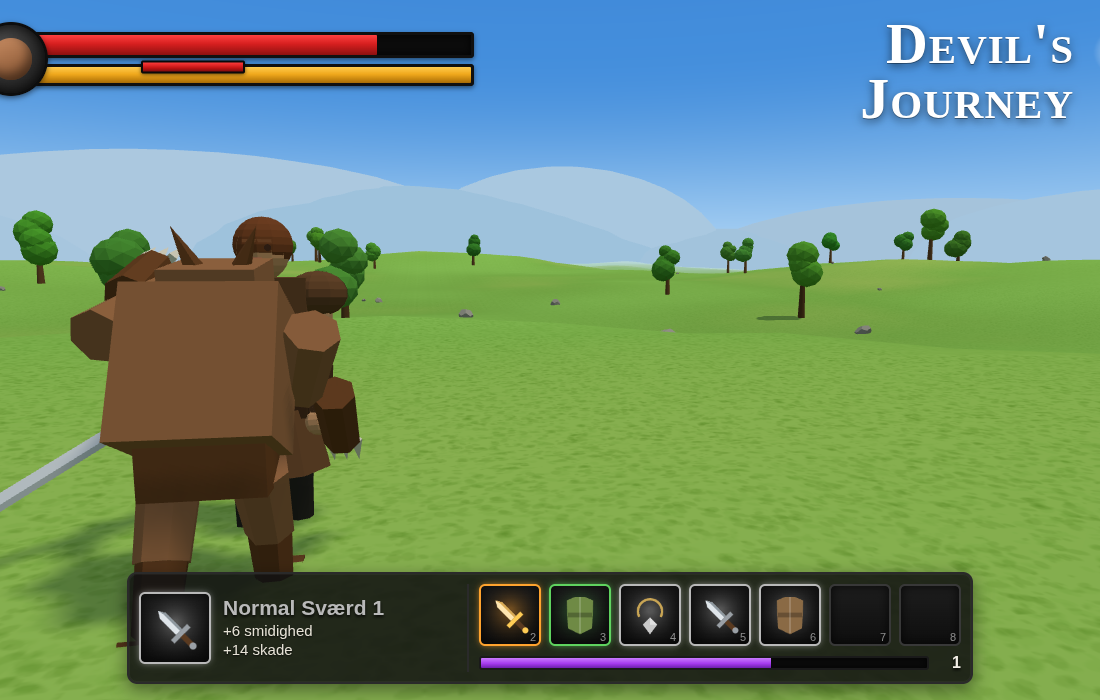
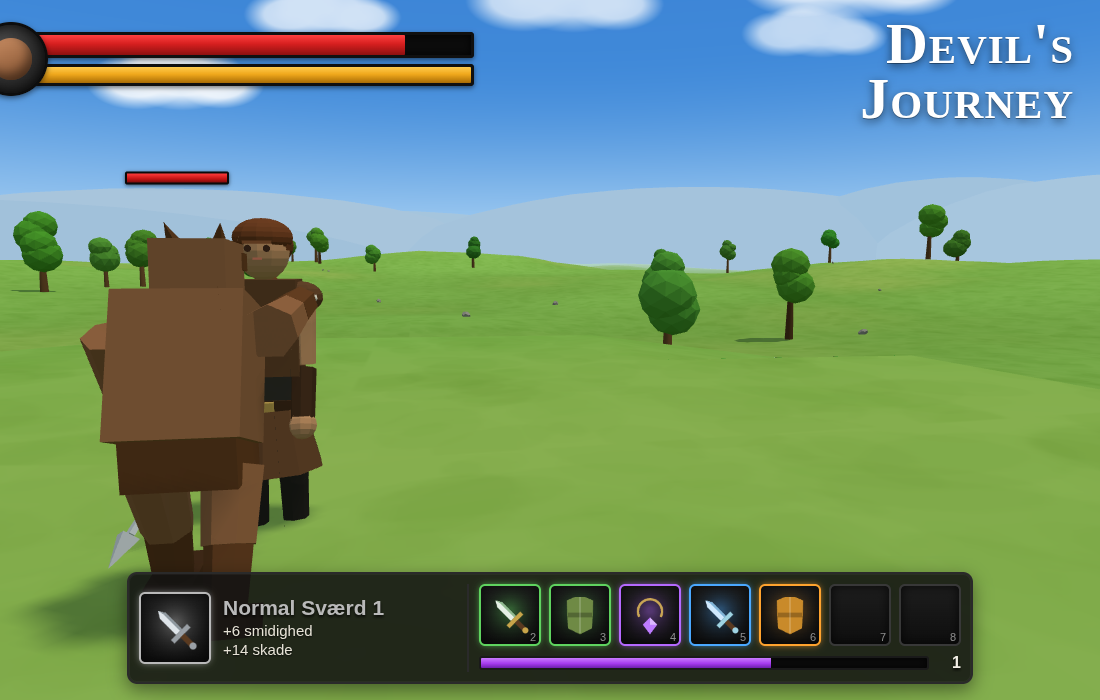
Character pass: slimmer hero, readable face, smaller hunched monster
Addresses the character review: narrowed shoulders and chest, added a hair
crown and braid down the back, cut the sword to one-handed scale and steepened
its idle angle, and rebuilt the monster shorter with a forward-leaning upper
body, joined arm segments, feet on the ground and swept-back horns.

diff --git a/src/characters.js b/src/characters.js
@@ -28,23 +28,23 @@ export function createWeaponMesh(tier = 0) {
   const t = Math.min(tier, 4);
 
   const g = new THREE.Group();
-  const bladeLen = 1.05 + t * 0.06;
-  const blade = box(0.115, bladeLen, 0.035, flat(bladeCols[t]));
+  const bladeLen = 0.70 + t * 0.045;
+  const blade = box(0.095, bladeLen, 0.03, flat(bladeCols[t]));
   blade.position.y = bladeLen / 2 + 0.12;
   g.add(blade);
-  const tip = new THREE.Mesh(new THREE.ConeGeometry(0.082, 0.24, 4), flat(bladeCols[t]));
+  const tip = new THREE.Mesh(new THREE.ConeGeometry(0.068, 0.19, 4), flat(bladeCols[t]));
   tip.rotation.y = Math.PI / 4;
   tip.position.y = bladeLen + 0.22;
   tip.castShadow = true;
   g.add(tip);
-  const guard = box(0.38, 0.07, 0.11, flat(guardCols[t]));
+  const guard = box(0.22, 0.055, 0.08, flat(guardCols[t]));
   guard.position.y = 0.12;
   g.add(guard);
-  const grip = caps(0.045, 0.05, 0.26, flat(gripCols[t]), 6);
+  const grip = caps(0.04, 0.044, 0.21, flat(gripCols[t]), 6);
   grip.position.y = -0.02;
   g.add(grip);
-  const pommel = sphere(0.062, flat(guardCols[t]), 7);
-  pommel.position.y = -0.16;
+  const pommel = sphere(0.042, flat(guardCols[t]), 7);
+  pommel.position.y = -0.135;
   g.add(pommel);
   if (t >= 3) {
     const glow = new THREE.PointLight(bladeCols[t], t >= 4 ? 1.1 : 0.6, 4);
@@ -74,20 +74,20 @@ export function createPlayerModel() {
   // torso
   const torso = new THREE.Group();
   hips.add(torso);
-  const chest = box(0.52, 0.6, 0.32, leather);
+  const chest = box(0.40, 0.58, 0.27, leather);
   chest.position.y = 0.34;
   torso.add(chest);
-  const belly = box(0.42, 0.26, 0.28, cloth);
+  const belly = box(0.30, 0.26, 0.24, cloth);
   belly.position.y = -0.02;
   torso.add(belly);
-  const belt = box(0.48, 0.11, 0.32, leatherDark);
+  const belt = box(0.40, 0.11, 0.27, leatherDark);
   belt.position.y = -0.15;
   torso.add(belt);
   const buckle = box(0.1, 0.1, 0.06, flat('#c9a554'));
-  buckle.position.set(0, -0.15, 0.2);
+  buckle.position.set(0, -0.15, 0.15);
   torso.add(buckle);
   // skirt / tassets
-  const skirt = new THREE.Mesh(new THREE.CylinderGeometry(0.26, 0.36, 0.38, 9, 1, true), leather);
+  const skirt = new THREE.Mesh(new THREE.CylinderGeometry(0.21, 0.31, 0.38, 9, 1, true), leather);
   skirt.material.side = THREE.DoubleSide;
   skirt.position.y = -0.34;
   skirt.castShadow = true;
@@ -101,39 +101,44 @@ export function createPlayerModel() {
   head.scale.set(0.92, 1.05, 0.95);
   head.position.y = 0.12;
   neck.add(head);
-  const hair = sphere(0.178, hairM, 12);
-  hair.scale.set(0.98, 0.95, 1.0);
-  hair.position.set(0, 0.155, -0.012);
+  const hair = sphere(0.172, hairM, 12);
+  hair.scale.set(1.0, 0.82, 1.0);
+  hair.position.set(0, 0.158, -0.045);
   neck.add(hair);
   const eyeMat = new THREE.MeshBasicMaterial({ color: '#2b1c12' });
   for (const sgn of [-1, 1]) {
     const eye = new THREE.Mesh(new THREE.SphereGeometry(0.021, 7, 7), eyeMat);
-    eye.position.set(0.058 * sgn, 0.135, 0.152);
+    eye.position.set(0.052 * sgn, 0.132, 0.158);
     neck.add(eye);
   }
   const brow = new THREE.Mesh(new THREE.BoxGeometry(0.16, 0.018, 0.02), new THREE.MeshBasicMaterial({ color: '#5d3a20' }));
-  brow.position.set(0, 0.175, 0.152);
+  brow.position.set(0, 0.168, 0.156);
   neck.add(brow);
   const mouth = new THREE.Mesh(new THREE.BoxGeometry(0.05, 0.014, 0.02), new THREE.MeshBasicMaterial({ color: '#8d5340' }));
-  mouth.position.set(0, 0.072, 0.155);
+  mouth.position.set(0, 0.073, 0.158);
   neck.add(mouth);
+
+  const crown = sphere(0.176, hairM, 12);
+  crown.scale.set(1.0, 0.66, 1.0);
+  crown.position.set(0, 0.2, -0.01);
+  neck.add(crown);
 
   const braid = new THREE.Group();
   braid.position.set(0, 0.10, -0.15);
   neck.add(braid);
-  for (let i = 0; i < 5; i++) {
-    const s = sphere(0.072 - i * 0.009, hairM, 8);
-    s.position.set(0, -i * 0.085, -i * 0.012);
+  for (let i = 0; i < 7; i++) {
+    const s = sphere(0.06 - i * 0.0045, hairM, 8);
+    s.position.set(0, -i * 0.085, -i * 0.008);
     braid.add(s);
   }
 
   // shoulders / arms
   function arm(side) {
     const shoulder = new THREE.Group();
-    shoulder.position.set(0.31 * side, 0.54, 0);
+    shoulder.position.set(0.21 * side, 0.52, 0);
     torso.add(shoulder);
-    const pauldron = sphere(0.175, leather, 9);
-    pauldron.scale.set(1.05, 0.8, 1.0);
+    const pauldron = sphere(0.115, leather, 9);
+    pauldron.scale.set(1.15, 0.85, 1.05);
     shoulder.add(pauldron);
     const upper = caps(0.085, 0.075, 0.34, skinM, 7);
     upper.position.y = -0.24;
@@ -157,7 +162,7 @@ export function createPlayerModel() {
   // legs
   function leg(side) {
     const hip = new THREE.Group();
-    hip.position.set(0.145 * side, -0.16, 0);
+    hip.position.set(0.115 * side, -0.16, 0);
     hips.add(hip);
     const thigh = caps(0.105, 0.092, 0.44, pants, 7);
     thigh.position.y = -0.24;
@@ -178,7 +183,7 @@ export function createPlayerModel() {
 
   // sword lives in the right hand
   const weaponMount = new THREE.Group();
-  weaponMount.rotation.set(2.00, 0.70, 0.60);
+  weaponMount.rotation.set(2.00, 1.10, 0.40);
   armR.hand.add(weaponMount);
   let weapon = createWeaponMesh(0);
   weaponMount.add(weapon);
@@ -209,85 +214,98 @@ export function createMonsterModel(variant = 0) {
   const dark = flat(p.dark);
 
   const root = new THREE.Group();
+  // body sits low so the whole thing stands about 1.55m — shorter than the hero
   const body = new THREE.Group();
-  body.position.y = 0.95;
+  body.position.y = 0.98;
   root.add(body);
 
-  const torso = box(0.66, 0.7, 0.5, skin);
-  torso.position.y = 0.1;
-  torso.rotation.x = 0.42;
-  body.add(torso);
-  const hipBox = box(0.54, 0.34, 0.44, dark);
-  hipBox.position.y = -0.26;
+  // everything above the hips leans forward; the legs stay under it
+  const lean = new THREE.Group();
+  lean.rotation.x = 0.30;
+  body.add(lean);
+
+  const torso = box(0.5, 0.6, 0.42, skin);
+  torso.position.y = 0.12;
+  lean.add(torso);
+  const hipBox = box(0.44, 0.28, 0.38, dark);
+  hipBox.position.y = -0.2;
   body.add(hipBox);
 
+  const neckCol = caps(0.09, 0.11, 0.12, dark, 7);
+  neckCol.position.set(0, 0.44, 0.04);
+  lean.add(neckCol);
+
   const headPivot = new THREE.Group();
-  headPivot.position.set(0, 0.42, 0.24);
-  body.add(headPivot);
-  const head = box(0.42, 0.36, 0.44, skin);
+  headPivot.position.set(0, 0.56, 0.06);
+  lean.add(headPivot);
+  const head = box(0.3, 0.28, 0.32, skin);
   headPivot.add(head);
-  const jaw = box(0.3, 0.14, 0.3, dark);
-  jaw.position.set(0, -0.2, 0.1);
+  const brow = box(0.32, 0.08, 0.06, dark);
+  brow.position.set(0, 0.06, 0.15);
+  headPivot.add(brow);
+  const jaw = box(0.22, 0.11, 0.22, dark);
+  jaw.position.set(0, -0.16, 0.07);
   headPivot.add(jaw);
   for (const s of [-1, 1]) {
-    const eye = sphere(0.055, new THREE.MeshBasicMaterial({ color: p.eye }), 7);
-    eye.position.set(0.11 * s, 0.05, 0.22);
+    const eye = sphere(0.032, new THREE.MeshBasicMaterial({ color: p.eye }), 7);
+    eye.position.set(0.075 * s, 0.0, 0.16);
     headPivot.add(eye);
-    const horn = new THREE.Mesh(new THREE.ConeGeometry(0.06, 0.26, 5), dark);
-    horn.position.set(0.14 * s, 0.24, -0.02);
-    horn.rotation.z = -0.4 * s;
+    const horn = new THREE.Mesh(new THREE.ConeGeometry(0.045, 0.13, 5), dark);
+    horn.position.set(0.1 * s, 0.16, -0.04);
+    horn.rotation.set(-0.5, 0, -0.2 * s);   // swept back, not splayed out
     horn.castShadow = true;
     headPivot.add(horn);
   }
 
+  // long arms hanging low; the segments meet cleanly at the elbow
   function limb(side) {
     const shoulder = new THREE.Group();
-    shoulder.position.set(0.4 * side, 0.28, 0);
-    body.add(shoulder);
-    const upper = caps(0.13, 0.11, 0.48, skin, 7);
+    shoulder.position.set(0.31 * side, 0.28, 0);
+    lean.add(shoulder);
+    const upper = caps(0.12, 0.1, 0.44, skin, 7);
     upper.position.y = -0.22;
-    upper.rotation.z = 0.25 * -side;
     shoulder.add(upper);
     const elbow = new THREE.Group();
-    elbow.position.set(0.1 * side, -0.5, 0);
+    elbow.position.y = -0.44;
     shoulder.add(elbow);
-    const fore = caps(0.11, 0.1, 0.44, dark, 7);
+    const fore = caps(0.1, 0.09, 0.4, dark, 7);
     fore.position.y = -0.2;
     elbow.add(fore);
     const claw = new THREE.Group();
-    claw.position.y = -0.48;
+    claw.position.y = -0.4;
     elbow.add(claw);
     for (let i = 0; i < 3; i++) {
-      const c = new THREE.Mesh(new THREE.ConeGeometry(0.035, 0.22, 4), flat('#e8e2d2'));
-      c.position.set((i - 1) * 0.07, -0.1, 0.03);
+      const c = new THREE.Mesh(new THREE.ConeGeometry(0.03, 0.18, 4), flat('#e8e2d2'));
+      c.position.set((i - 1) * 0.06, -0.08, 0.02);
       c.rotation.x = Math.PI;
       c.castShadow = true;
       claw.add(c);
     }
     return { shoulder, elbow, claw };
   }
-  const armR = limb(1), armL = limb(-1);
+  const armR = limb(-1), armL = limb(1);
 
+  // legs: short and stocky, feet flat on the ground
   function leg(side) {
     const hip = new THREE.Group();
-    hip.position.set(0.19 * side, -0.36, 0);
+    hip.position.set(0.16 * side, -0.3, 0);
     body.add(hip);
-    const thigh = caps(0.14, 0.12, 0.4, skin, 7);
-    thigh.position.y = -0.2;
+    const thigh = caps(0.13, 0.11, 0.32, skin, 7);
+    thigh.position.y = -0.16;
     hip.add(thigh);
     const knee = new THREE.Group();
-    knee.position.y = -0.4;
+    knee.position.y = -0.32;
     hip.add(knee);
-    const shin = caps(0.11, 0.09, 0.36, dark, 7);
-    shin.position.y = -0.18;
+    const shin = caps(0.1, 0.085, 0.28, dark, 7);
+    shin.position.y = -0.14;
     knee.add(shin);
-    const foot = box(0.22, 0.13, 0.34, dark);
-    foot.position.set(0, -0.38, 0.06);
+    const foot = box(0.2, 0.12, 0.3, dark);
+    foot.position.set(0, -0.3, 0.05);
     knee.add(foot);
     return { hip, knee };
   }
-  const legR = leg(1), legL = leg(-1);
+  const legR = leg(-1), legL = leg(1);
 
-  root.userData = { body, headPivot, armR, armL, legR, legL };
+  root.userData = { body, lean, headPivot, armR, armL, legR, legL };
   return root;
 }

diff --git a/src/main.js b/src/main.js
@@ -266,7 +266,7 @@ function gainXp(amount) {
 function damageMonster(amount, crit) {
   monster.hp -= amount;
   monster.hurt = 0.18;
-  ui.floatText(`${amount}`, screenOf(monster.pos, 2.2), crit ? 'crit' : 'dmg');
+  ui.floatText(`${amount}`, screenOf(monster.pos, 1.75), crit ? 'crit' : 'dmg');
   if (monster.hp <= 0) killMonster();
 }
 
@@ -276,7 +276,7 @@ function killMonster() {
   monster.stateT = 0;
   const xp = 18 + monster.level * 8;
   gainXp(xp);
-  ui.floatText(`+${xp} xp`, screenOf(monster.pos, 2.6), 'xp');
+  ui.floatText(`+${xp} xp`, screenOf(monster.pos, 2.0), 'xp');
   ui.removeEnemyBar(monster.id);
 
   // loot: always something small, sometimes a real upgrade
@@ -411,8 +411,8 @@ function animateMonster(m, dt) {
   u.legL.hip.rotation.x = -swing;
   u.legR.knee.rotation.x = Math.max(0, -swing) * 0.6;
   u.legL.knee.rotation.x = Math.max(0, swing) * 0.6;
-  u.body.position.y = 0.95 + Math.abs(Math.sin(m.walkPhase)) * 0.06;
-  u.headPivot.rotation.x = -0.1 + Math.sin(m.walkPhase * 0.5) * 0.05;
+  u.body.position.y = 0.98 + Math.abs(Math.sin(m.walkPhase)) * 0.05;
+  u.headPivot.rotation.x = -0.22 + Math.sin(m.walkPhase * 0.5) * 0.05;
 
   if (m.state === 'attack' && m.attackT >= 0) {
     const p = THREE.MathUtils.clamp(m.attackT / 0.9, 0, 1);
@@ -506,7 +506,7 @@ function animatePlayer(dt, moving, sprinting) {
   } else {
     // relaxed guard: sword held low and slightly out, like the concept art
     u.armR.shoulder.rotation.x = THREE.MathUtils.lerp(u.armR.shoulder.rotation.x, 0.22 - swing * 0.2, dt * 10);
-    u.armR.shoulder.rotation.z = THREE.MathUtils.lerp(u.armR.shoulder.rotation.z, -0.5, dt * 10);
+    u.armR.shoulder.rotation.z = THREE.MathUtils.lerp(u.armR.shoulder.rotation.z, -0.26, dt * 10);
     u.armR.elbow.rotation.x = THREE.MathUtils.lerp(u.armR.elbow.rotation.x, -0.25, dt * 10);
   }
 }
@@ -579,7 +579,7 @@ function frame() {
     state.level);
 
   if (!monster.dead) {
-    const s = screenOf(monster.pos, 2.35);
+    const s = screenOf(monster.pos, 1.85);
     ui.updateEnemyBar(monster.id, {
       x: s.x, y: s.y, visible: s.visible,
       pct: monster.hp / monster.maxHp,
